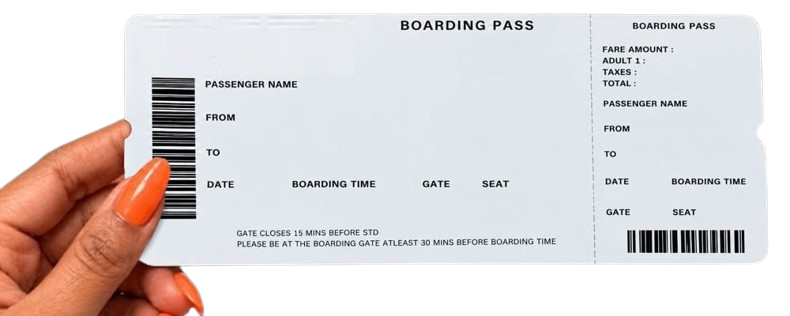
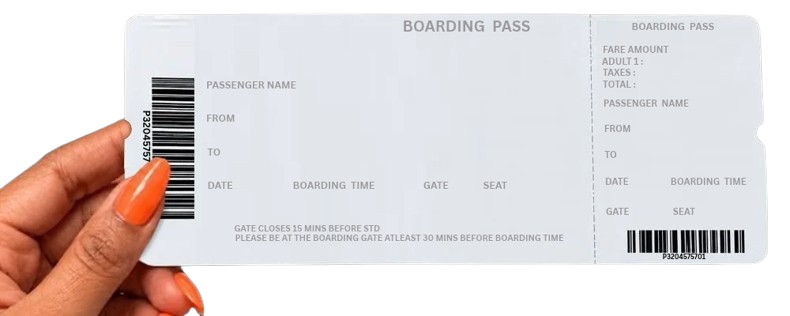
flight finished

diff --git a/boardingPass.js b/boardingPass.js
@@ -513,13 +513,7 @@ const textPositions = {
 
   trackingNumber1: {
     left: 40,
-    top: 78.5,
-    width: 14
-  },
-
-  trackingNumber2: {
-    left: 80.8,
-    top: 79.8,
+    top: 77.8,
     width: 14
   },
 
